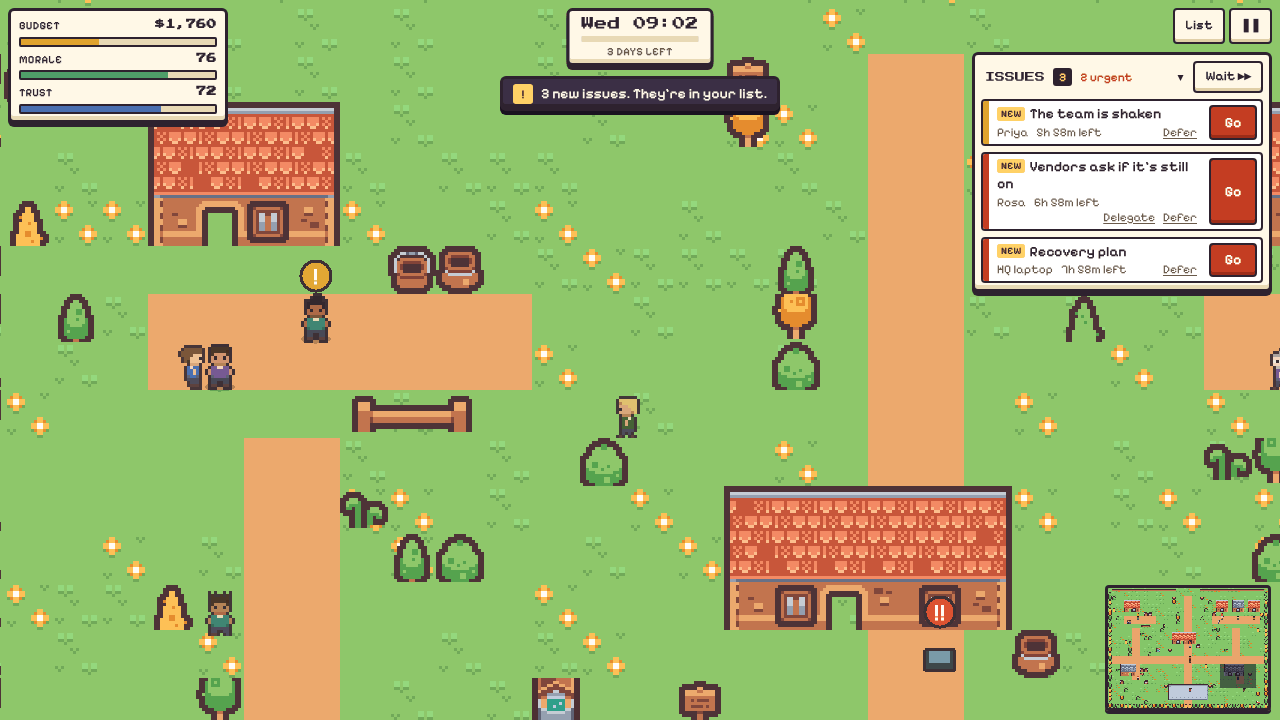
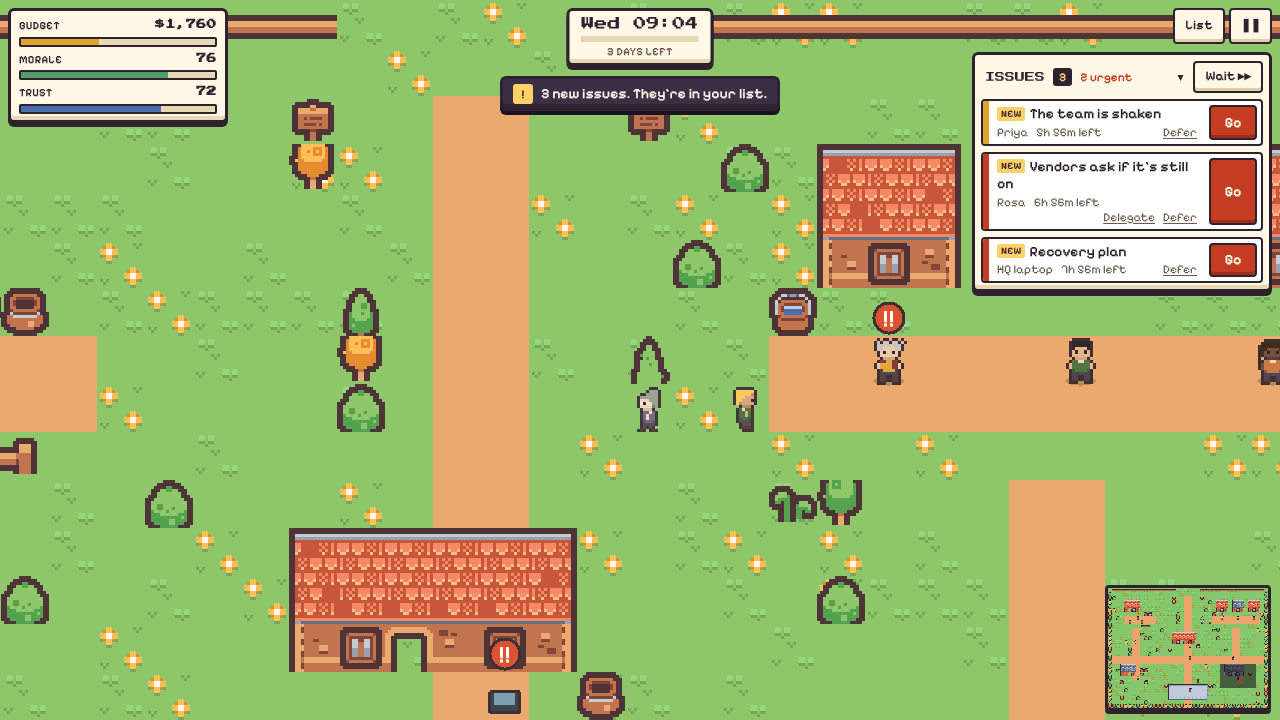
Laptop issue bubble sits on the laptop; issue list 330 px wide on large screens
- The HQ laptop's !! bubble no longer floats onto the HQ building
- Issue list widens to 330 px from 1024 px so titles stay on one line (map signs reserve the extra width)
- Review shots, all sizes: docs/screens/night/game-ui/r12 (before) and r13 (after)

Claude-Session: https://claude.ai/code/session_0154mYPTaU9kvf4BdByBTPCk

diff --git a/components/game/phaser/createScene.ts b/components/game/phaser/createScene.ts
@@ -424,7 +424,8 @@ export function createScene(Phaser: typeof PhaserNS, o: Opts) {
           const sev = openByNpc.get(id);
           n.bubble.setVisible(!!sev);
           if (sev) {
-            n.bubble.setPosition(n.sprite.x, n.sprite.y - 14);
+            // Props (the laptop, a report) sit low: their bubble hugs them instead of floating onto the building.
+            n.bubble.setPosition(n.sprite.x, n.sprite.y - (n.sprite.visible ? 14 : 8));
             const bg = n.bubble.list[0] as PhaserNS.GameObjects.Arc;
             bg.setFillStyle(SEVERITY_COLOUR[sev]);
             (n.bubble.list[1] as PhaserNS.GameObjects.Text).setColor("#ffffff").setText(sev === "high" ? "!!" : "!");
@@ -524,7 +525,7 @@ export function createScene(Phaser: typeof PhaserNS, o: Opts) {
       const big = sw >= 1700 && this.scale.height >= 950; // the HUD is drawn 1.25x there (tp-scale in GameShell)
       const k = big ? 1.25 : 1;
       const top = (132 * k) / z;
-      const listW = desktop ? (320 * k) / z : 0, listBottom = (360 * k) / z;
+      const listW = desktop ? ((sw >= 1024 ? 350 : 320) * k) / z : 0, listBottom = (360 * k) / z;
       // Signs keep one on-screen size whatever the camera zoom (about 18 px tall).
       const scale = (desktop ? 17 : 14) / (8 * z);
       const hide = this.panning || !!o.hideSigns?.();

diff --git a/components/game2/Hud.tsx b/components/game2/Hud.tsx
@@ -120,7 +120,7 @@ export function IssueTracker({
   // Issues that appeared in the last game hour get a "New" tag so fresh trouble is easy to spot.
   const fresh = new Set(state.events.filter((e) => e.kind === "spawned" && state.t - e.t < 60).map((e) => e.issue));
   return (
-    <Panel className="w-full p-1.5 sm:w-[300px]" data-testid="issue-tracker">
+    <Panel className="w-full p-1.5 sm:w-[300px] lg:w-[330px]" data-testid="issue-tracker">
       <div className="flex items-center gap-1.5">
         <button className="flex min-h-8 flex-1 items-center gap-2 rounded-[3px] px-1 text-left focus-visible:outline focus-visible:outline-2 focus-visible:outline-[#c43d22]" onClick={() => setOpen((o) => !o)} aria-expanded={open}>
           <span className={cn(pixelTitle.className, "text-[10px] uppercase")}>Issues</span>
